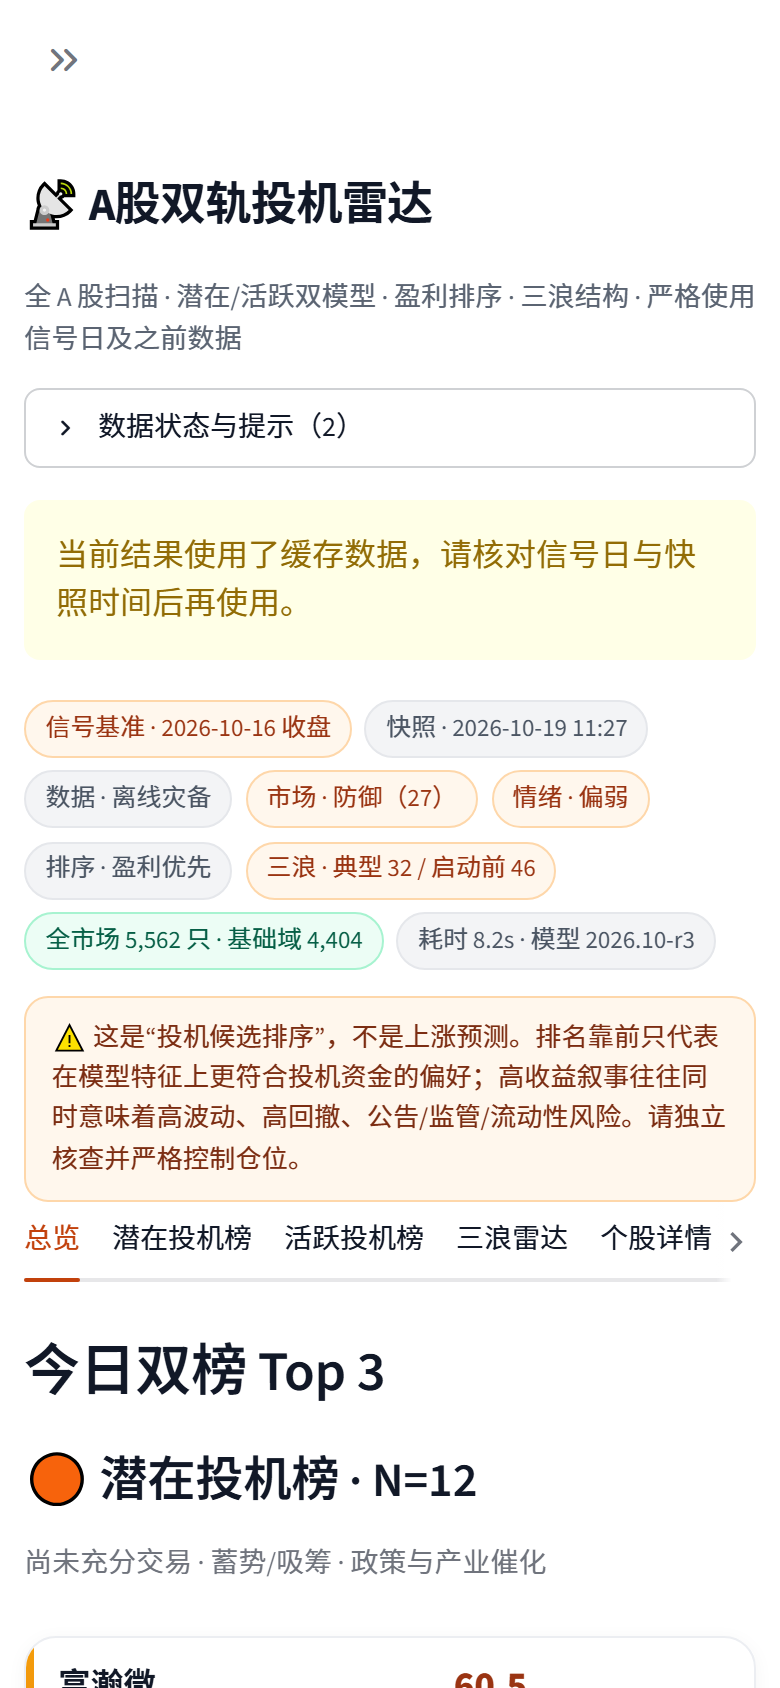
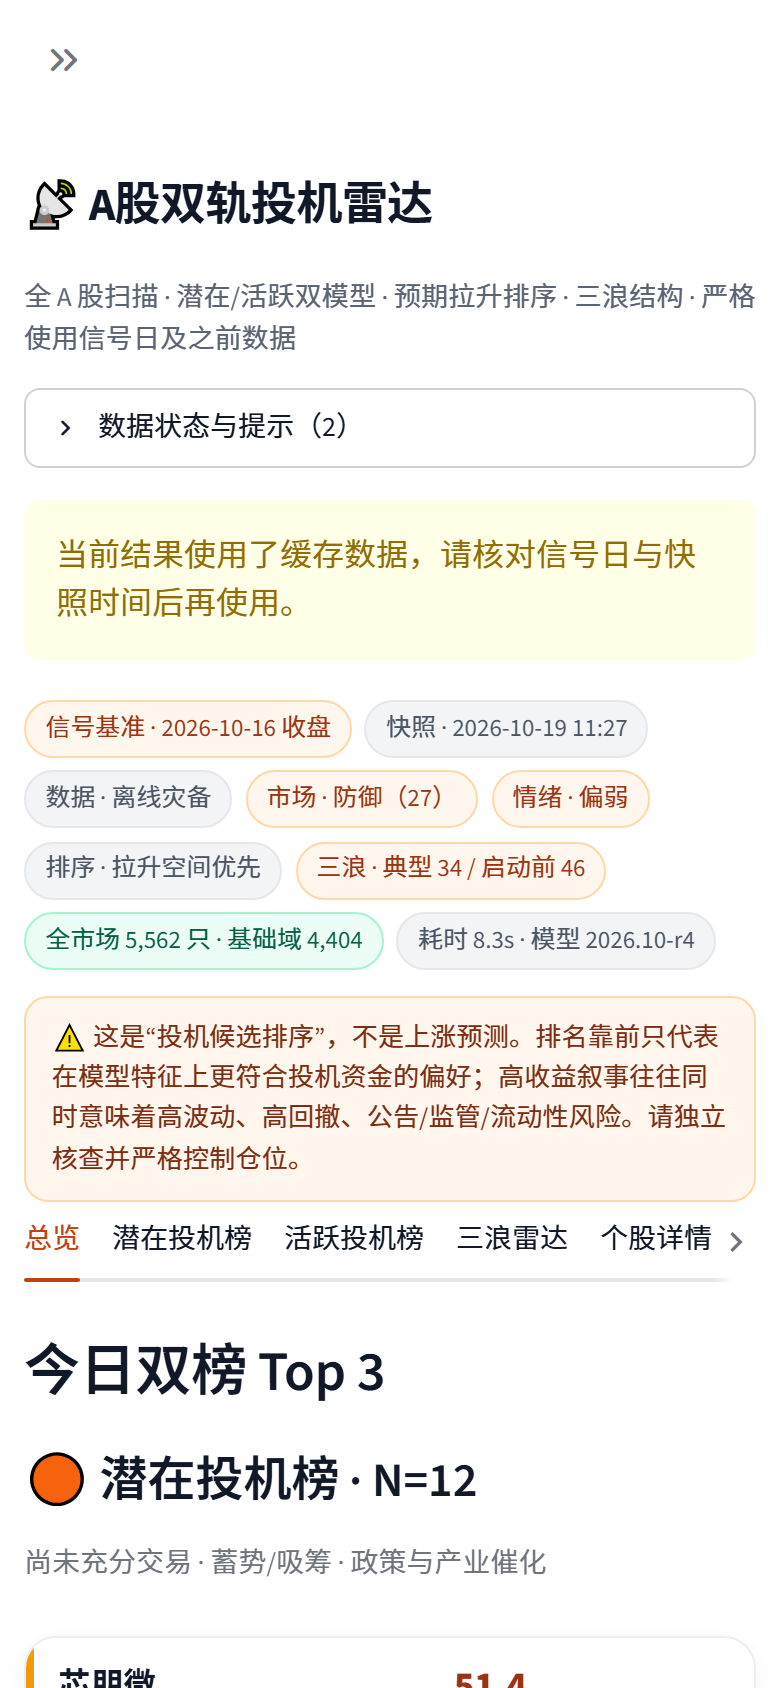
fix: sort by expected rally space instead of accounting profitability

diff --git a/app.py b/app.py
@@ -52,7 +52,7 @@ st.set_page_config(
 
 MODEL_COLORS = {"potential": "#d97706", "active": "#c2410c"}
 MODEL_NAMES = {"potential": "潜在投机", "active": "活跃投机"}
-UI_CACHE_VERSION = "2026.10-r3-wave"
+UI_CACHE_VERSION = "2026.10-r5-rally-base"
 
 
 # --------------------------------------------------------------------------- 样式
@@ -213,13 +213,13 @@ def cards_html(df: pd.DataFrame, model_key: str, n: int = 3) -> str:
     </div>
     <div>
       <div class="pc-score">{num(row.get('score'), 1)}</div>
-      <div class="pc-rank">盈利#{int(row.get('rank'))} · 投机#{num(row.get('model_rank'),0)} · 稳健度 {num(row.get('confidence'), 0)}</div>
+      <div class="pc-rank">拉升#{int(row.get('rank'))} · 投机#{num(row.get('model_rank'),0)} · 稳健度 {num(row.get('confidence'), 0)}</div>
     </div>
   </div>
   <div class="pc-theme">{theme}</div>
   <div class="pc-metrics">
     <div class="pc-metric">当前价<b>{num(row.get('current_price'), 2)}</b></div>
-    <div class="pc-metric">盈利分<b>{num(row.get('profitability_score'), 0)}</b></div>
+    <div class="pc-metric">预期空间<b>{pct(row.get('rally_space_pct'))}</b></div>
     <div class="pc-metric">20日<b>{pct(row.get('ret20'))}</b></div>
     <div class="pc-metric">60日<b>{pct(row.get('ret60'))}</b></div>
     <div class="pc-metric">流通市值<b>{num(row.get('float_mcap_yi'), 0, '亿')}</b></div>
@@ -259,8 +259,9 @@ def table_view(df: pd.DataFrame, n: int) -> pd.DataFrame:
         "投机#": d["model_rank"].astype(int) if "model_rank" in d else "—",
         "代码": d["code"],
         "名称": d["name"],
-        "盈利分": d["profitability_score"].round(0) if "profitability_score" in d else "—",
-        "盈利状态": d["profitability_label"] if "profitability_label" in d else "—",
+        "预期拉升": (d["rally_max_pct"].map(lambda x: pct(x)) + " / 基准 " + d["rally_space_pct"].map(lambda x: pct(x))) if "rally_max_pct" in d else "—",
+        "财务质量": d["profitability_score"].round(0) if "profitability_score" in d else "—",
+        "财务状态": d["profitability_label"] if "profitability_label" in d else "—",
         "投机分": d["score"].round(1),
         "稳健度": d["confidence"].round(0),
         "风险": d["risk_level"],
@@ -291,8 +292,9 @@ def export_csv(df: pd.DataFrame, model_key: str) -> bytes:
     d = df.copy()
     d["模型"] = MODEL_NAMES.get(model_key, model_key)
     rename = {
-        "rank": "榜单排序", "model_rank": "投机排名", "code": "代码", "name": "名称", "score": "综合分",
-        "profitability_score": "盈利分", "profitability_label": "盈利状态",
+        "rank": "拉升排序", "model_rank": "投机排名", "code": "代码", "name": "名称", "score": "综合分",
+        "rally_space_pct": "预期拉升基准", "rally_max_pct": "预期拉升上限",
+        "profitability_score": "财务质量分", "profitability_label": "财务状态",
         "confidence": "稳健度", "risk_level": "风险等级", "industry": "行业",
         "theme_label": "核心主题", "current_price": "当前价", "close_signal": "信号日收盘", "ret20": "20日涨幅",
         "ret60": "60日涨幅", "ret120": "120日涨幅", "ret250": "250日涨幅",
@@ -323,7 +325,8 @@ def export_csv(df: pd.DataFrame, model_key: str) -> bytes:
     component_cols = {c: f"分项-{COMPONENT_LABELS.get(c.replace('c_', ''), c)}" for c in d.columns if c.startswith("c_")}
     rename.update(component_cols)
     for col in ("ret20", "ret60", "ret120", "ret250", "turnover20_pct", "theme_fit", "concept_day",
-                "concept_20d", "ind_ret20", "p_hit_10d", "p_up_10d", "target_upside_pct"):
+                "concept_20d", "ind_ret20", "p_hit_10d", "p_up_10d", "target_upside_pct",
+                "rally_space_pct", "rally_max_pct"):
         if col in d:
             d[col] = (d[col] * 100).round(2)
     cols = [c for c in rename if c in d.columns] + ["模型"]
@@ -458,7 +461,7 @@ def render_detail(result: dict, n_potential: int, n_active: int) -> None:
         f"""<div class="detail-head">
         <div class="dh-name">{esc(row['name'])} <span class="pc-code">{esc(row['code'])}</span></div>
         <div class="dh-meta">{esc(row['industry'])} · {esc(row['board'])} · 信号日 {esc(row.get('signal_date'))} ·
-        综合分 {num(row['score'])}（盈利#{int(row['rank'])} / 投机#{num(row.get('model_rank'),0)} · {MODEL_NAMES[model_key]}）· 稳健度 {num(row['confidence'], 0)} · 风险 {esc(row['risk_level'])}</div>
+        综合分 {num(row['score'])}（拉升#{int(row['rank'])} / 投机#{num(row.get('model_rank'),0)} · {MODEL_NAMES[model_key]}）· 稳健度 {num(row['confidence'], 0)} · 风险 {esc(row['risk_level'])}</div>
         <div class="dh-theme">主题：{esc(row.get('theme_label') or '主题映射不足')}</div>
         </div>""",
         unsafe_allow_html=True,
@@ -471,7 +474,8 @@ def render_detail(result: dict, n_potential: int, n_active: int) -> None:
             ("60日涨幅", pct(row.get("ret60")), "距60日高 " + pct(row.get("dist_high60"))),
             ("流通市值", num(row.get("float_mcap_yi"), 1, "亿"), "20日均额 " + num(row.get("amount20_yi"), 2, "亿")),
             ("换手(20)", num(row.get("turnover20_pct"), 2, "%"), "RSI14 " + num(row.get("rsi14"), 1)),
-            ("盈利分", num(row.get("profitability_score"), 0), str(row.get("profitability_label") or "—")),
+            ("预期拉升", pct(row.get("rally_space_pct")), "上限 " + pct(row.get("rally_max_pct"))),
+            ("财务质量", num(row.get("profitability_score"), 0), str(row.get("profitability_label") or "—")),
             ("PE(TTM)", num(row.get("pe_ttm"), 1), "PB " + num(row.get("pb"), 2)),
             ("净利同比", pct(row.get("profit_yoy")), "营收同比 " + pct(row.get("rev_yoy"))),
             ("风险罚分", num(row.get("penalty"), 1), "稳健度 " + num(row.get("confidence"), 0)),
@@ -675,7 +679,7 @@ def render_wave(result: dict) -> None:
             "位置": d["wave_position"].map(lambda x: num(x, 2)) if "wave_position" in d else "—",
             "盈亏比": d["wave_risk_reward"].map(lambda x: num(x, 2)) if "wave_risk_reward" in d else "—",
             "三浪综合": d["wave_composite"].map(lambda x: num(x, 0)) if "wave_composite" in d else "—",
-            "盈利分": d["profitability_score"].map(lambda x: num(x, 0)) if "profitability_score" in d else "—",
+            "财务质量": d["profitability_score"].map(lambda x: num(x, 0)) if "profitability_score" in d else "—",
             "来源": d.get("wave_model", "—"),
         })
     st.markdown("#### 典型三浪 · 已进入三浪/主升")
@@ -697,7 +701,7 @@ def render_wave(result: dict) -> None:
     st.markdown(
         "<div class='warnbox'><b>三浪规则摘要：</b>一浪涨幅≥8%、二浪回撤 12%–82% 且不破一浪起点、"
         "二浪缩量、当前不破二浪低点；目标用一浪长度的 1.0/1.618/2.618 倍映射。"
-        "三浪综合分 = 结构 32% + 启动概率 20% + 空间 14% + 盈利 10% + 主题 9% + 双模型分 15%。"
+        "三浪综合分 = 结构 32% + 启动概率 20% + 三浪空间 14% + 预期拉升 10% + 主题 9% + 双模型分 15%。"
         "“启动时间”按二浪时长、缩量和量能估计，仅为观察窗口。<br/>"
         "三浪失败/结构破坏：收盘跌破二浪低点；或突破后 3 日无法站稳一浪高点。"
         "所有数值是研究用条件计划，不构成投资建议。</div>",
@@ -1022,11 +1026,18 @@ def sidebar(settings: ScanSettings) -> tuple[ScanSettings, int, int, bool]:
     dep = {"快速 · 200/200": 200, "标准 · 300/300": 300, "深度 · 500/500": 500}[depth]
     sort_label = st.sidebar.selectbox(
         "榜单排序",
-        options=["盈利能力优先（推荐）", "投机综合分优先"],
-        index=0 if settings.sort_mode == "profitability" else 1,
-        help="两种排序使用同一批通过六维/六格门槛的股票；盈利优先不会改变硬门槛。",
+        options=["预期拉升基准优先（推荐）", "预期拉升上限优先", "财务质量优先", "投机综合分优先"],
+        index={"rally": 0, "rally_max": 1, "fundamental": 2, "profitability": 2}.get(settings.sort_mode, 0),
+        help="“预期拉升”=预测目标空间，不是公司财务盈利；基准用目标中枢，上限用目标上沿。",
     )
-    sort_mode = "profitability" if sort_label.startswith("盈利") else "speculation"
+    if "上限" in sort_label:
+        sort_mode = "rally_max"
+    elif "预期" in sort_label:
+        sort_mode = "rally"
+    elif "财务" in sort_label:
+        sort_mode = "fundamental"
+    else:
+        sort_mode = "speculation"
     risk_label = st.sidebar.selectbox(
         "宏观情景假设",
         options=["自动识别（推荐）", "偏进攻", "偏防御"],
@@ -1074,7 +1085,7 @@ def sidebar(settings: ScanSettings) -> tuple[ScanSettings, int, int, bool]:
         "“投机”意味着高波动、高回撤与流动性风险，任何排名都可能失效。</div>",
         unsafe_allow_html=True,
     )
-    st.sidebar.caption("模型 2026.10-r3 · 数据：东方财富 / 腾讯 / 新浪")
+    st.sidebar.caption("模型 2026.10-r4 · 数据：东方财富 / 腾讯 / 新浪")
     return new_settings, int(n_pot), int(n_act), bool(excl_loss)
 
 
@@ -1086,7 +1097,7 @@ def main() -> None:
 <div style="display:flex; align-items:flex-start; justify-content:space-between; gap:1rem; flex-wrap:wrap;">
   <div>
     <h1>📡 A股双轨投机雷达</h1>
-    <div class="hero-sub">全 A 股扫描 · 潜在/活跃双模型 · 盈利排序 · 三浪结构 · 严格使用信号日及之前数据</div>
+    <div class="hero-sub">全 A 股扫描 · 潜在/活跃双模型 · 预期拉升排序 · 三浪结构 · 严格使用信号日及之前数据</div>
   </div>
 </div>
         """,
@@ -1184,7 +1195,7 @@ def main() -> None:
   <span class="badge gray">数据 · {esc(mode_label)}</span>
   <span class="badge">市场 · {esc(macro.get('label'))}（{num(macro.get('risk_appetite'),0)}）</span>
   <span class="badge">情绪 · {esc((meta.get('sentiment') or {}).get('label','未知'))}</span>
-  <span class="badge gray">排序 · {'盈利优先' if meta.get('sort_mode') == 'profitability' else '投机分优先'}</span>
+  <span class="badge gray">排序 · {'拉升基准优先' if meta.get('sort_mode') == 'rally' else ('拉升上限优先' if meta.get('sort_mode') == 'rally_max' else ('财务质量优先' if meta.get('sort_mode') in {'fundamental', 'profitability'} else '投机分优先'))}</span>
   <span class="badge">三浪 · 典型 {int(meta.get('wave_typical', 0))} / 启动前 {int(meta.get('wave_pre', 0))}</span>
   <span class="badge green">全市场 {int(meta.get('universe_total',0)):,} 只 · 基础域 {int(meta.get('eligible_base',0)):,}</span>
   <span class="badge gray">耗时 {num(meta.get('elapsed_sec'),1)}s · 模型 {esc(meta.get('model_version'))}</span>
@@ -1255,7 +1266,7 @@ def main() -> None:
                 height=min(620, 42 + 36 * min(n_pot, len(pot))),
                 column_config={
                     "投机分": st.column_config.ProgressColumn("投机分", min_value=0, max_value=100, format="%.1f"),
-                    "盈利分": st.column_config.NumberColumn("盈利分", format="%.0f"),
+                    "财务质量": st.column_config.NumberColumn("财务质量", format="%.0f"),
                     "稳健度": st.column_config.NumberColumn("稳健度", format="%.0f"),
                 },
             )
@@ -1264,7 +1275,7 @@ def main() -> None:
                 file_name=f"potential_rank_{meta.get('signal_date')}.csv", mime="text/csv",
                 key="dl_pot",
             )
-            st.caption("盈利分是当前排序；投机分只在同一榜单内相对比较，不同模型之间不可直接比较。")
+            st.caption("预期拉升按预测目标空间排序；财务质量只作参考，投机分只在同一榜单内相对比较。")
 
     with tab_act:
         st.markdown("### 活跃投机榜")
@@ -1289,7 +1300,7 @@ def main() -> None:
                 height=min(620, 42 + 36 * min(n_act, len(act))),
                 column_config={
                     "投机分": st.column_config.ProgressColumn("投机分", min_value=0, max_value=100, format="%.1f"),
-                    "盈利分": st.column_config.NumberColumn("盈利分", format="%.0f"),
+                    "财务质量": st.column_config.NumberColumn("财务质量", format="%.0f"),
                     "稳健度": st.column_config.NumberColumn("稳健度", format="%.0f"),
                 },
             )
@@ -1298,7 +1309,7 @@ def main() -> None:
                 file_name=f"active_rank_{meta.get('signal_date')}.csv", mime="text/csv",
                 key="dl_act",
             )
-            st.caption("盈利分是当前排序；投机分只在同一榜单内相对比较，不同模型之间不可直接比较。")
+            st.caption("预期拉升按预测目标空间排序；财务质量只作参考，投机分只在同一榜单内相对比较。")
 
     with tab_wave:
         render_wave(result)

diff --git a/spec_radar/pipeline.py b/spec_radar/pipeline.py
@@ -394,13 +394,46 @@ def run_scan(
         potential = add_trade_levels(potential, "potential")
     if not active.empty:
         active = add_trade_levels(active, "active")
-    # 盈利能力排序与投机综合分排序分开；默认按用户要求“盈利优先”。
+    # “盈利能力”在用户语境里是未来股价可能拉升的总幅度，不是公司财务盈利。
+    # 因此默认按预测目标空间排序；财务质量只作为参考列，不再作为默认排序键。
+    def _add_rally_space(frame: pd.DataFrame) -> pd.DataFrame:
+        if frame.empty:
+            return frame
+        out = frame.copy()
+        cur = pd.to_numeric(
+            out.get("current_price", out.get("close_signal")), errors="coerce"
+        ).replace(0, np.nan)
+        cur = cur.fillna(pd.to_numeric(out.get("close_signal"), errors="coerce"))
+        base = (pd.to_numeric(out.get("target_high"), errors="coerce") / cur - 1.0).fillna(0).clip(lower=0)
+        bull = (pd.to_numeric(out.get("target_high_bull"), errors="coerce") / cur - 1.0).fillna(0).clip(lower=0)
+        if "wave_target2" in out:
+            wave_bull = (pd.to_numeric(out["wave_target2"], errors="coerce") / cur - 1.0).fillna(0).clip(lower=0)
+            bull = np.maximum(bull, wave_bull)
+        out["rally_space_pct"] = base
+        out["rally_max_pct"] = bull
+        out["rally_score"] = (base * 100.0).clip(0, 100)
+        return out
+
+    potential = _add_rally_space(potential)
+    active = _add_rally_space(active)
+
     def _sort_frame(frame: pd.DataFrame) -> pd.DataFrame:
         if frame.empty:
             return frame
         out = frame.copy()
         out["model_rank"] = out["rank"]
-        if settings.sort_mode == "profitability":
+        mode = "fundamental" if settings.sort_mode == "profitability" else settings.sort_mode
+        if mode == "rally":
+            out = out.sort_values(
+                ["rally_space_pct", "p_hit_10d", "rally_max_pct", "score", "confidence", "amount20_yi"],
+                ascending=[False, False, False, False, False, False],
+            ).reset_index(drop=True)
+        elif mode == "rally_max":
+            out = out.sort_values(
+                ["rally_max_pct", "p_hit_10d", "score", "confidence", "amount20_yi"],
+                ascending=[False, False, False, False, False],
+            ).reset_index(drop=True)
+        elif mode == "fundamental":
             out = out.sort_values(
                 ["profitability_score", "score", "confidence", "amount20_yi"],
                 ascending=[False, False, False, False],
@@ -435,11 +468,11 @@ def run_scan(
                 0.32 * _numcol("wave_pattern_score")
                 + 0.20 * _numcol("wave_launch_prob") * 100
                 + 0.14 * _numcol("wave_upside_bull").clip(0, 0.6) * 100
-                + 0.10 * _numcol("profitability_score")
+                + 0.10 * _numcol("rally_space_pct").clip(0, 1.0) * 100
                 + 0.09 * _numcol("theme_fit") * 100
                 + 0.15 * _numcol("score")
             ).clip(0, 100)
-            wave_all = wave_all.sort_values(["wave_composite", "profitability_score"], ascending=[False, False])
+            wave_all = wave_all.sort_values(["wave_composite", "rally_max_pct"], ascending=[False, False])
             wave_all = wave_all.drop_duplicates("code", keep="first").reset_index(drop=True)
             typical = wave_all[
                 wave_all["wave_stage_code"].isin(["early3", "main3"])

diff --git a/spec_radar/framework.py b/spec_radar/framework.py
@@ -173,6 +173,9 @@ def add_trade_levels(df: pd.DataFrame, model_key: str) -> pd.DataFrame:
         if not np.isfinite(close) or close <= 0:
             rows.append({})
             continue
+        now = _s(row, "current_price", close)
+        if not np.isfinite(now) or now <= 0:
+            now = close
         atr = _s(row, "atr14", 0.03) * close
         ma5 = _s(row, "ma5", close)
         ma10 = _s(row, "ma10", close)
@@ -190,23 +193,28 @@ def add_trade_levels(df: pd.DataFrame, model_key: str) -> pd.DataFrame:
             buy_high = min(close * 1.015, ma20 * 1.035)
             if buy_high <= buy_low:
                 buy_high = buy_low * 1.02
+            # 支撑位不应跑到现价远上方；否则“买点”变成追高。
+            buy_high = min(buy_high, now * 1.01)
+            buy_low = min(buy_low, buy_high * 0.99)
             best_buy = (buy_low + buy_high) / 2
-            stop = min(buy_low * 0.97, ma60 * 0.985) if np.isfinite(ma60) else buy_low * 0.97
+            stop = min(buy_low * 0.97, ma60 * 0.985) if np.isfinite(ma60) and ma60 < buy_low else buy_low * 0.97
             trigger = "回踩 MA20/60 或 60 日低点缩量企稳；或放量突破 20 日高点后回踩确认"
-            sell_low = max(t_low, high60 * 0.98, best_buy * 1.06)
+            sell_low = max(t_low, high60 * 0.98, best_buy * 1.06, now * 1.03)
             sell_high = max(t_bull, t_mid, sell_low * 1.02)
             note = "潜在票先等回踩/突破确认，不在放量长上影当天追；破位不补仓。"
         else:
             buy_low = min(ma10, close * 0.985) * 0.995 if np.isfinite(ma10) else close * 0.96
             buy_high = max(ma10 * 1.01, buy_low * 1.015) if np.isfinite(ma10) else close * 0.99
-            if buy_high >= close:
-                buy_high = close * 0.995
+            if buy_high >= now:
+                buy_high = now * 0.995
             if buy_high <= buy_low:
                 buy_high = buy_low * 1.01
+            buy_high = min(buy_high, now * 1.005)
+            buy_low = min(buy_low, buy_high * 0.99)
             best_buy = (buy_low + buy_high) / 2
             stop = min(ma20 * 0.97, buy_low * 0.94, close * 0.92) if np.isfinite(ma20) else buy_low * 0.94
             trigger = "回踩 MA10 不破且缩量，或突破前高后 1–2 日不破；不追 5 日加速末端"
-            sell_low = max(t_low, high60 * 0.99, best_buy * 1.06)
+            sell_low = max(t_low, high60 * 0.99, best_buy * 1.06, now * 1.03)
             sell_high = max(t_bull, t_mid, sell_low * 1.02)
             note = "活跃票按接力/波段处理，跌破 MA20 或放量长阴先离场。"
         stop = min(stop, best_buy * 0.99) if stop < best_buy else best_buy * 0.92

diff --git a/scripts/scan.py b/scripts/scan.py
@@ -32,8 +32,8 @@ def main() -> int:
     parser.add_argument("--n-active", type=int, default=None)
     parser.add_argument("--depth", type=int, default=300, choices=[200, 300, 500, 650], help="每个模型的粗筛池大小")
     parser.add_argument("--risk", default="auto", choices=["auto", "offensive", "defensive"])
-    parser.add_argument("--sort", default="profitability", choices=["profitability", "speculation"],
-                        help="榜单排序：盈利能力优先或投机综合分优先")
+    parser.add_argument("--sort", default="rally", choices=["rally", "rally_max", "fundamental", "speculation", "profitability"],
+                        help="榜单排序：预期拉升空间/财务质量/投机综合分")
     parser.add_argument("--as-of", default="", help="YYYY-MM-DD，默认最近已收盘交易日")
     parser.add_argument("--outdir", default=str(ROOT / "reports"))
     parser.add_argument("--no-cache", action="store_true", help="强制绕过磁盘缓存重新抓取")

diff --git a/spec_radar/config.py b/spec_radar/config.py
@@ -55,7 +55,7 @@ class ScanSettings:
     min_amount20_yi: float = 0.0
     exclude_loss: bool = False
     risk_mode: str = "auto"  # auto / offensive / defensive
-    sort_mode: str = "profitability"  # profitability / speculation
+    sort_mode: str = "rally"  # rally / fundamental / speculation
     as_of: str = ""  # YYYY-MM-DD；留空表示自动取最近已收盘交易日
     lookback_bars: int = 320
 
@@ -70,7 +70,7 @@ class ScanSettings:
             raise ValueError("活跃榜扫描深度必须在 100..1200")
         if self.risk_mode not in {"auto", "offensive", "defensive"}:
             raise ValueError("risk_mode 非法")
-        if self.sort_mode not in {"profitability", "speculation"}:
+        if self.sort_mode not in {"rally", "rally_max", "fundamental", "speculation", "profitability"}:
             raise ValueError("sort_mode 非法")
 
     def key(self) -> Dict[str, Any]:
